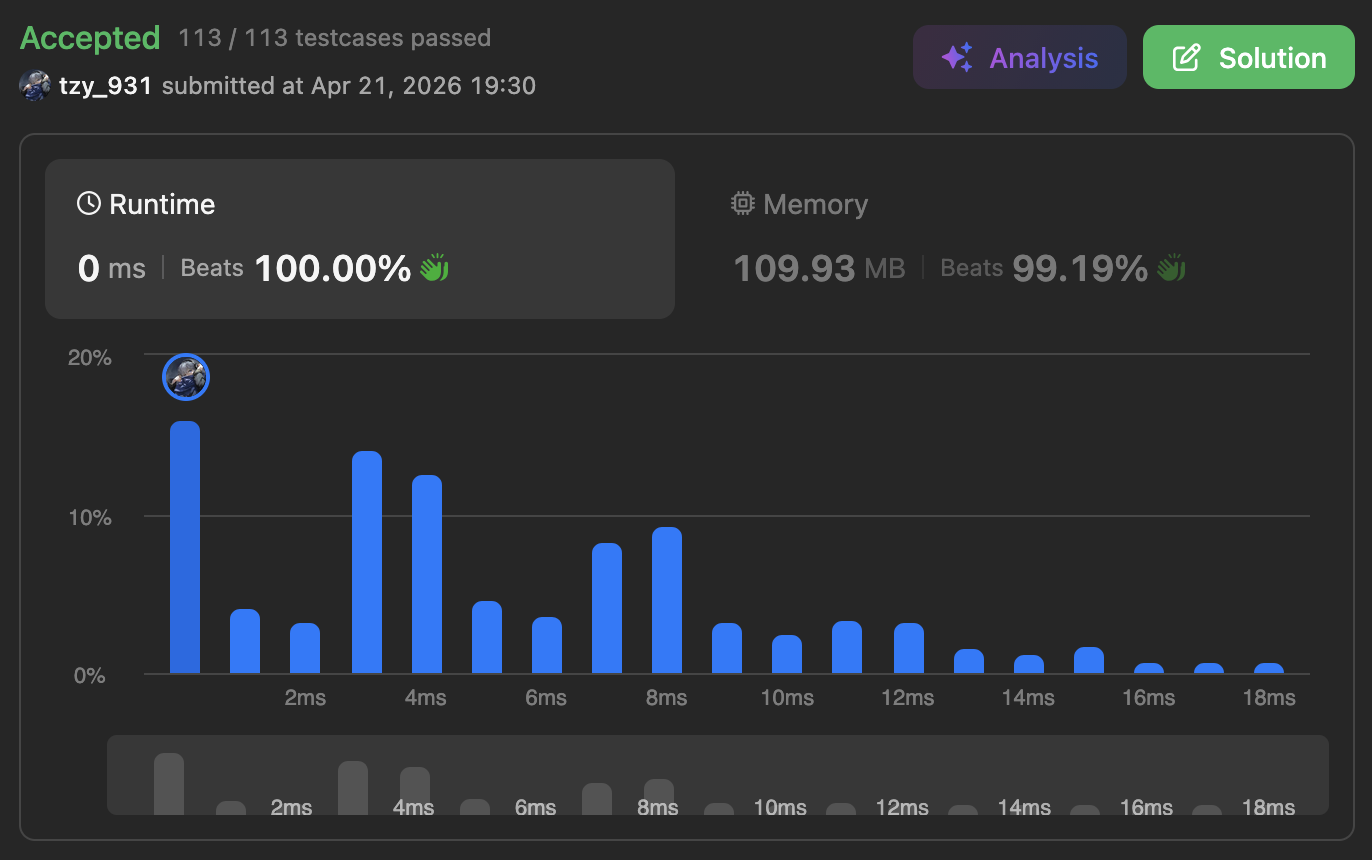
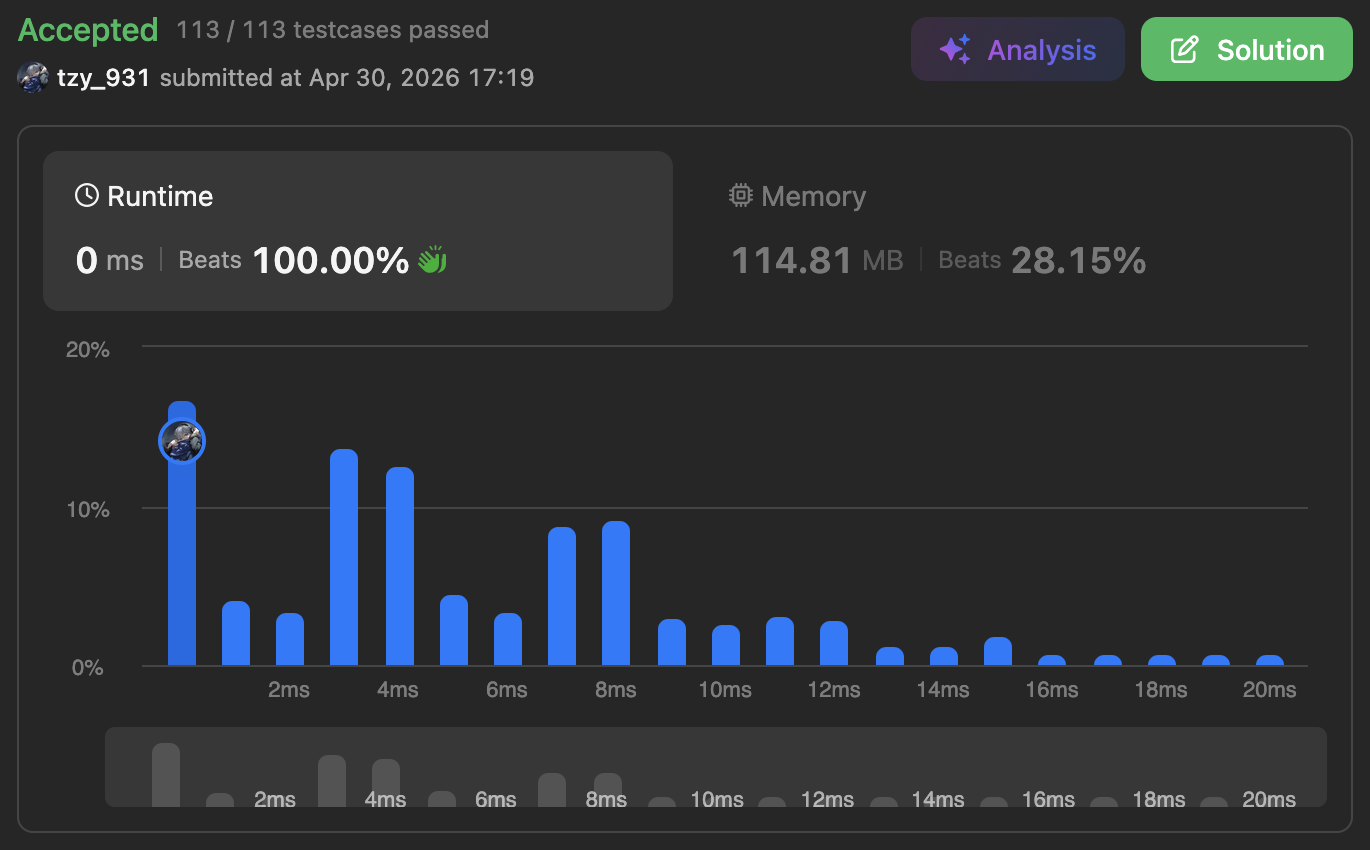
Slight update on Week Week5

diff --git a/Week5/995_Minimum_Number_of_K_Consecutive_Bit_Flips.cpp b/Week5/995_Minimum_Number_of_K_Consecutive_Bit_Flips.cpp
@@ -4,38 +4,28 @@ using namespace std;
 
 class Solution {
 public:
-    /* Time Complexity: O(n), Space Complexity: O(1) */
+    /* Time Complexity: O(n), Space Complexity: O(n) */
     int minKBitFlips(vector<int>& nums, int k) {
         int n = nums.size();
-        int totalFlips = 0;
-        int currentActiveFlips = 0;
+        vector<int> diff(n + 1, 0);
+        int cur_flips = 0;
+        int total_flips = 0;
 
         for (int i = 0; i < n; ++i) {
-            // TODO 1: Remove the effect of the flip that has moved out of the sliding window
-            // If the element at (i - k) was marked (> 1), its flip effect expires now
-            if (i >= k && nums[i - k] > 1) {
-                currentActiveFlips--;
-                nums[i - k] -= 2;
-            }
+            cur_flips += diff[i];
 
-            // TODO 2: Determine if the current element needs to be flipped
-            if ((nums[i] + currentActiveFlips) % 2 == 0) {
-
-                // TODO 3: Check boundaries
+            if ((nums[i] + cur_flips) % 2 == 0) {
                 if (i + k > n) {
                     return -1;
                 }
 
-                // TODO 4: Execute the flip
-                totalFlips++;
-                currentActiveFlips++;
-
-                // Mark the current index to indicate a flip started here
-                nums[i] += 2;
+                total_flips++;
+                cur_flips++;
+                diff[i + k]--;
             }
         }
-
-        return totalFlips;
+        
+        return total_flips;
     }
 };
 

diff --git a/Week4/761_Special_Binary_String.cpp b/Week4/761_Special_Binary_String.cpp
@@ -16,19 +16,12 @@ public:
         
         // TODO 1: Find all top-level special substrings
         for (int i = 0; i < s.length(); i++) {
-            if (s[i] == '1') {
-                count++;
-            } else {
-                count--;
-            }
+            count += (s[i] == '1') ? 1 : -1;
             
             if (count == 0) {
-                // Extract substring [start, i]
-                string sub = s.substr(start, i - start + 1);
-                
                 // TODO 2: Recursively process the inner part
-                // Remove outer '1' and '0', process middle, then wrap back
-                string inner = sub.substr(1, sub.length() - 2);
+                // Extract substring [start, i] and remove outer '1' and '0', process middle, then wrap back
+                string inner = s.substr(start + 1, i - start - 1);
                 string processed = "1" + makeLargestSpecial(inner) + "0";
                 
                 subs.push_back(processed);

diff --git a/Week4/218_The_Skyline_Problem.cpp b/Week4/218_The_Skyline_Problem.cpp
@@ -27,6 +27,7 @@ public:
         multiset<int> heights;
         heights.insert(0);      // ground height
         int prevMaxHeight = 0;
+        
 
         // TODO 4: sweep line
         for (const auto& event : events) {
@@ -41,10 +42,10 @@ public:
                 heights.erase(heights.find(h));
             }
 
-            // max height
+            // max height (multiset is ascending order)
             int currentMaxHeight = *heights.rbegin();
 
-            // only record when height changes
+            // record when height changes
             if (currentMaxHeight != prevMaxHeight) {
                 result.push_back({x, currentMaxHeight});
                 prevMaxHeight = currentMaxHeight;

diff --git a/Week5/1499_Max_Value_of_Equation.cpp b/Week5/1499_Max_Value_of_Equation.cpp
@@ -26,8 +26,6 @@ public:
             }
             
             // TODO 3: Maintain the strictly decreasing monotonic property of the deque
-            // If the current (y - x) is greater than or equal to the back of the deque,
-            // the back elements are useless because the current element is larger and will live longer.
             int currentDiff = y - x;
             while (!dq.empty() && dq.back().first <= currentDiff) {
                 dq.pop_back();
